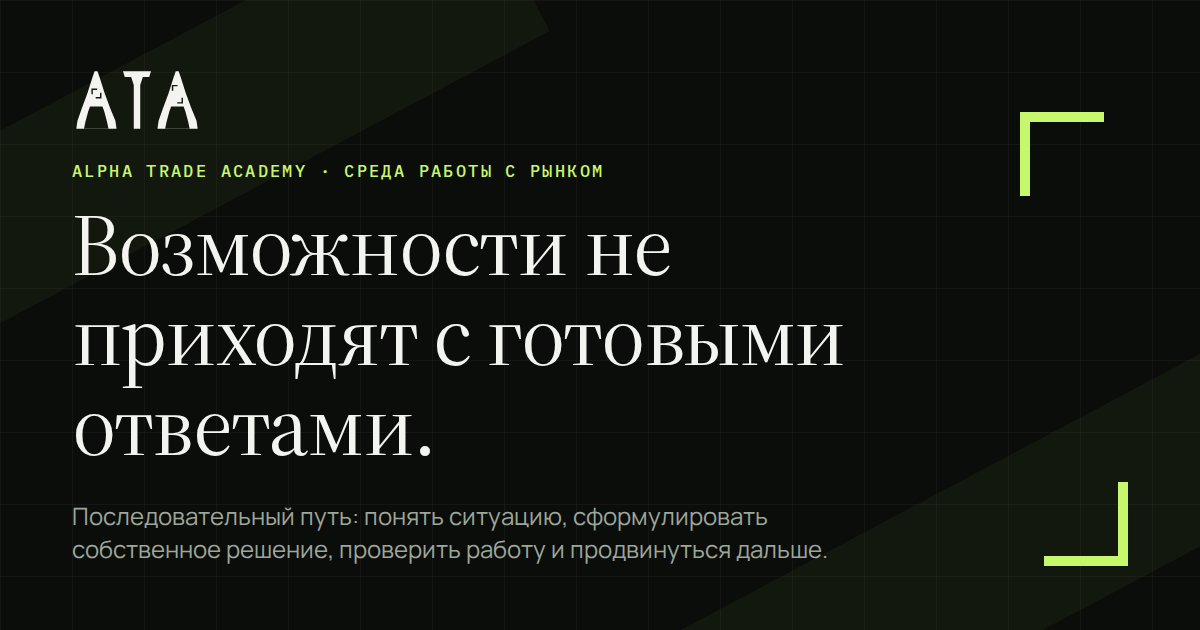
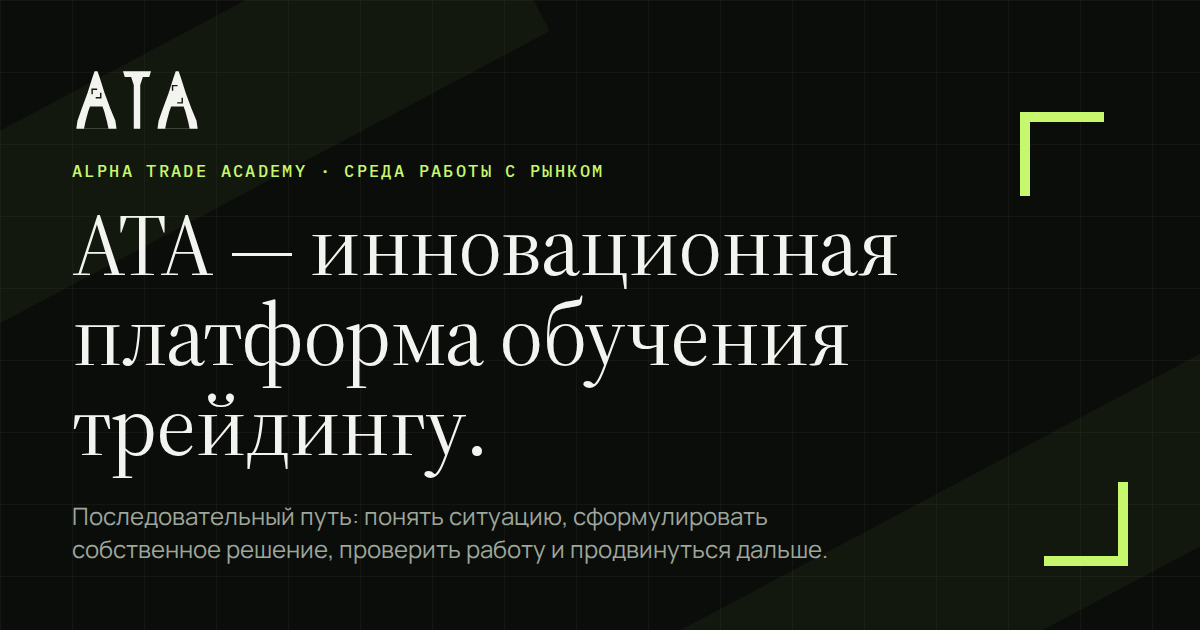
DD-364: Public Home headline «ATA — инновационная платформа обучения трейдингу.»
Owner 2026-10-08: «тут меняем на АТА - инновационная платформа обучения трейдингу».

- The hero h1 is the owner's phrase (Latin ATA as everywhere on the page, em dash, final period).
- The line under it began «Рынок — одна из таких сред», pointing back at the old headline; it now
  begins «Здесь вы последовательно учитесь понимать ситуацию на рынке, …» and wraps "pretty" so it
  never ends on a lone «её.».
- Beside the film (wider than 1180) the headline is clamp(52px, 4.4vw, 63px): three lines instead of
  five single words, the buttons back in the first screen of 1366×768. Up to 1180 the old size is
  restored; at 359 and below 13.2vw keeps «инновационная» inside a 320px phone's 16px gutter.
- public/og/home.png re-rendered from its source with the new headline; alt text updated.
- Tests pin the headline, the line under it, the three sizes and their order. DD-364 recorded.

Changed region(s): [[0.0617, 0.3317, 0.74, 0.754]]

diff --git a/src/features/public-home/public-home.test.tsx b/src/features/public-home/public-home.test.tsx
@@ -109,10 +109,16 @@ describe("Public Home — architecture", () => {
     }
   });
 
-  it("opens on the opportunity, not on a negated category", () => {
+  it("opens on what ATA is, not on a negated category", () => {
     const { container } = render(<PublicHomeScreen authenticated={false} />);
     const h1 = container.querySelector("h1") as HTMLElement;
-    expect(text(h1)).toBe("Возможности не приходят с готовыми ответами.");
+    // DD-364 (owner, 2026-10-08): the headline names the platform.
+    expect(text(h1)).toBe("ATA — инновационная платформа обучения трейдингу.");
+    // The line under it no longer points back at a headline that is gone
+    // («Рынок — одна из таких сред» followed «Возможности не приходят…»).
+    const definition = container.querySelector(".hero__definition") as HTMLElement;
+    expect(text(definition)).toMatch(/^Здесь вы последовательно учитесь понимать ситуацию на рынке,/);
+    expect(text(container)).not.toContain("одна из таких сред");
     // The page used to open by defining itself against a competitor category.
     // An argument against others leaves no room for the learner's own agency.
     expect(text(container)).not.toContain("Не ещё один источник информации");
@@ -1392,5 +1398,33 @@ describe("Public Home — the Entry Checklist example is the tool's own seven co
     expect(text(window)).toContain("7 / 7");
     expect(text(window)).toContain("среда, график и сделка");
     expect(window.querySelector(".pw-check__item em")).toBeNull();
+  });
+});
+
+/* DD-364 (2026-10-08), the owner: «тут меняем на АТА - инновационная платформа обучения
+   трейдингу». The headline's longest word is long, and beside the film its column is narrow. */
+describe("Public Home — the headline names the platform and fits every width (DD-364)", () => {
+  const css = readFileSync(join(process.cwd(), "src/features/public-home/public-home.css"), "utf8").replace(
+    /\/\*[\s\S]*?\*\//g,
+    "",
+  );
+
+  it("is set smaller only beside the film, so it reads in three lines there", () => {
+    // Base (wider than 1180, beside the film): at most 63px, «ATA — инновационная» on one line.
+    expect(css).toMatch(/\n\.ph \.display--hero \{\s*max-width: 760px;\s*font-size: clamp\(52px, 4\.4vw, 63px\);\s*\}/);
+    // Up to 1180 the headline has the whole row and keeps its old size.
+    const wholeRow = css.search(/@media \(max-width: 1180px\) \{[^@]*?\.ph \.display--hero \{\s*font-size: clamp\(56px, 5\.4vw, 82px\);\s*\}/);
+    const phone = css.search(/\.ph \.display--hero \{\s*font-size: clamp\(44px, 14vw, 64px\);/);
+    const narrowPhone = css.search(/@media \(max-width: 359px\) \{\s*\.ph \.display--hero \{\s*font-size: 13\.2vw;\s*\}\s*\}/);
+    expect(wholeRow, "the 1180 rule restoring the old size").toBeGreaterThan(-1);
+    expect(phone, "the phone rule").toBeGreaterThan(-1);
+    expect(narrowPhone, "the 359 rule keeping «инновационная» inside a 320px phone's gutter").toBeGreaterThan(-1);
+    // Same specificity everywhere, so the narrower rule must come later in the file.
+    expect(wholeRow).toBeLessThan(phone);
+    expect(phone).toBeLessThan(narrowPhone);
+  });
+
+  it("does not leave the line under it ending on a lone word", () => {
+    expect(css).toMatch(/\n\.ph \.hero__definition \{[^}]*text-wrap: pretty;/);
   });
 });

diff --git a/src/features/public-home/public-home-screen.tsx b/src/features/public-home/public-home-screen.tsx
@@ -101,13 +101,17 @@ export function PublicHomeScreen({
           <div className="hero__inner shell">
             <div className="hero__copy" data-reveal>
               <p className="eyebrow">ALPHA TRADE ACADEMY · СРЕДА РАБОТЫ С РЫНКОМ</p>
+              {/* DD-364 (owner, 2026-10-08): «тут меняем на АТА - инновационная
+                  платформа обучения трейдингу». The line under it used to begin
+                  «Рынок — одна из таких сред», which pointed back at the old
+                  headline; with nothing left to point at, it begins with the
+                  learner and names the market itself. */}
               <h1 className="display display--hero">
-                Возможности не приходят с готовыми ответами.
+                ATA — инновационная платформа обучения трейдингу.
               </h1>
               <p className="hero__definition">
-                Рынок — одна из таких сред. В ATA вы последовательно учитесь понимать ситуацию,
-                формулировать собственное решение и его основание, действовать, проверять работу и
-                исправлять её.
+                Здесь вы последовательно учитесь понимать ситуацию на рынке, формулировать
+                собственное решение и его основание, действовать, проверять работу и исправлять её.
               </p>
               <div className="hero__actions">
                 <a className="button button--signal" href="#mechanism">

diff --git a/src/features/public-home/public-home.css b/src/features/public-home/public-home.css
@@ -248,9 +248,16 @@ html.ph-smooth-scroll {
   text-wrap: balance;
 }
 
+/* DD-364 (2026-10-08): the headline is «ATA — инновационная платформа
+   обучения трейдингу.» Beside the film its column is only 487–575px wide,
+   and at the old 64–82px every word took a line of its own — five lines,
+   «ATA —» alone on the first, the buttons pushed under the first screen of a
+   1366×768 laptop. At 52–63px it reads in three: «ATA — инновационная /
+   платформа / обучения трейдингу.» Up to 1180 the headline has the whole row
+   and keeps its old size (restored in that block). */
 .ph .display--hero {
   max-width: 760px;
-  font-size: clamp(56px, 5.4vw, 82px);
+  font-size: clamp(52px, 4.4vw, 63px);
 }
 
 .ph .display--hero span {
@@ -542,6 +549,8 @@ html.ph-smooth-scroll {
   font-size: clamp(18px, 1.45vw, 22px);
   line-height: 1.58;
   margin: 26px 0 26px;
+  /* DD-364: the new sentence left «её.» alone on its last line at 1440 and 390. */
+  text-wrap: pretty;
 }
 
 .ph .hero__actions {
@@ -1261,6 +1270,12 @@ html.ph-smooth-scroll {
     max-width: 900px;
   }
 
+  /* The film goes below the copy here, so the headline has the whole row
+     and keeps the size it always had (DD-364 smaller only beside the film). */
+  .ph .display--hero {
+    font-size: clamp(56px, 5.4vw, 82px);
+  }
+
   .ph .section-intro--wide,
 .ph .review-proof__heading {
     grid-template-columns: 1fr;
@@ -1639,6 +1654,14 @@ html.ph-smooth-scroll {
     margin: 0 5px 5px;
     padding: 26px 0;
     border-radius: 18px;
+  }
+}
+
+/* DD-364: «инновационная», the headline's longest word, is 6.6 of its own
+   font size wide; at 14vw it ran 7px past the 16px gutter of a 320px phone. */
+@media (max-width: 359px) {
+  .ph .display--hero {
+    font-size: 13.2vw;
   }
 }
 

diff --git a/public/og/home.source.html b/public/og/home.source.html
@@ -22,7 +22,7 @@ h1 { position: absolute; top: 200px; left: 72px; margin: 0; width: 960px; font-f
 <div class="grid"></div><div class="band b1"></div><div class="band b2"></div>
 <img class="logo" src="../brand/ata-logo.svg" alt="">
 <div class="eyebrow">Alpha Trade Academy · среда работы с рынком</div>
-<h1>Возможности не приходят с готовыми ответами.</h1>
+<h1>ATA — инновационная платформа обучения трейдингу.</h1>
 <div class="sub">Последовательный путь: понять ситуацию, сформулировать собственное решение, проверить работу и продвинуться дальше.</div>
 <div class="corner c1"></div><div class="corner c2"></div>
 </body></html>

diff --git a/src/app/page.tsx b/src/app/page.tsx
@@ -48,7 +48,7 @@ export function generateMetadata(): Metadata {
     url: `${indexing.origin}${OG_IMAGE.path}`,
     width: OG_IMAGE.width,
     height: OG_IMAGE.height,
-    alt: "Alpha Trade Academy — Возможности не приходят с готовыми ответами.",
+    alt: "Alpha Trade Academy · ATA — инновационная платформа обучения трейдингу.",
   };
   return {
     title: TITLE,

diff --git a/docs/DESIGN_DECISIONS.md b/docs/DESIGN_DECISIONS.md
@@ -1854,6 +1854,18 @@
   ради субтитров → на раздаче нужна CORS-политика для домена Академии. Раскладка бакета = `ATA_MEDIA_ROOT`
   (`lessons/<код>/<hash>.<ext>`, `public/film/hero.*`); выгрузка — `backend/scripts/ops/syncMediaToS3.ts`.
   Инструкция и шаблон CloudFormation — `docs/ops/media-cdn/`.
+- **DD-364 (Locked, PUBLIC HOME HEADLINE, 2026-10-08).** Владелец: «тут меняем на АТА - инновационная платформа
+  обучения трейдингу» (заголовок первого экрана внешней главной). Заголовок — «ATA — инновационная платформа
+  обучения трейдингу.»: знак латиницей, как везде на странице («Посмотреть, как работает ATA»), тире, точка в
+  конце, как у всех заголовков страницы. Прежний заголовок «Возможности не приходят с готовыми ответами.» снят.
+  Строка под ним начиналась «Рынок — одна из таких сред» и ссылалась на прежний заголовок; теперь она «Здесь вы
+  последовательно учитесь понимать ситуацию на рынке, …» — дальше без изменений. Рядом с фильмом (шире 1180 px)
+  колонка текста узкая (487–575 px), и при прежних 64–82 px каждое слово вставало на свою строку — пять строк,
+  «ATA —» отдельно, кнопки уходили под первый экран ноутбука 1366×768; теперь там 52–63 px и три строки
+  («ATA — инновационная / платформа / обучения трейдингу.»). До 1180 px размер прежний. На телефонах уже 360 px —
+  13,2vw, чтобы «инновационная» не заходила за поля 16 px. Строка под заголовком не кончается одиноким словом
+  (`text-wrap: pretty`). Превью ссылки (`public/og/home.png`) перерисовано из источника с новым заголовком,
+  подпись картинки — та же фраза.
 
 ## Открытые вопросы (решаются позже)
 
